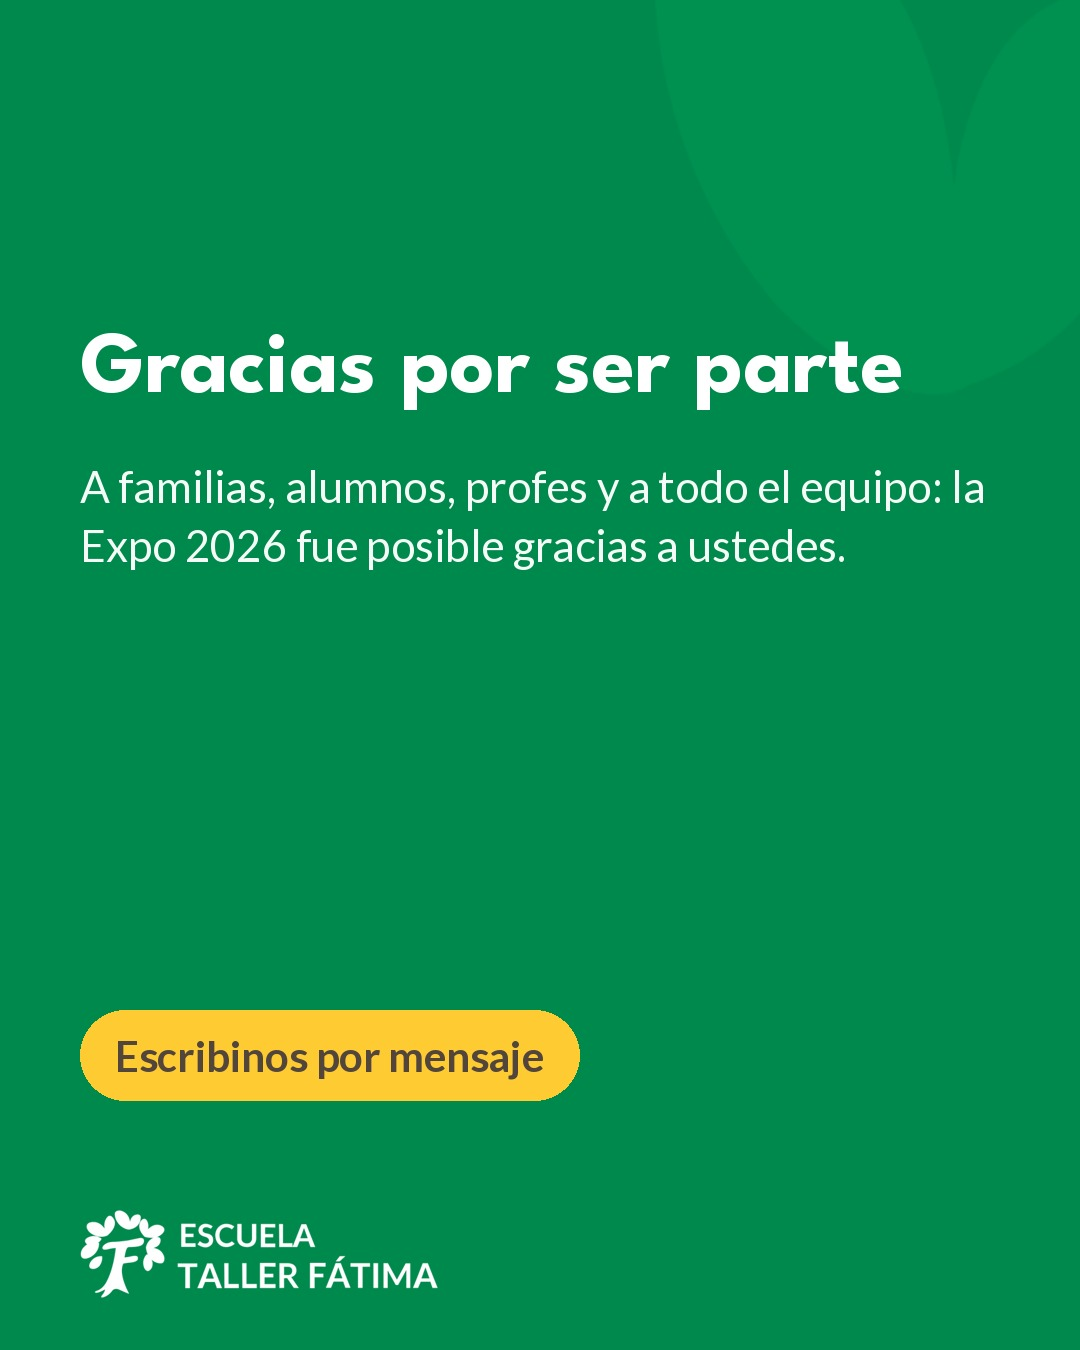
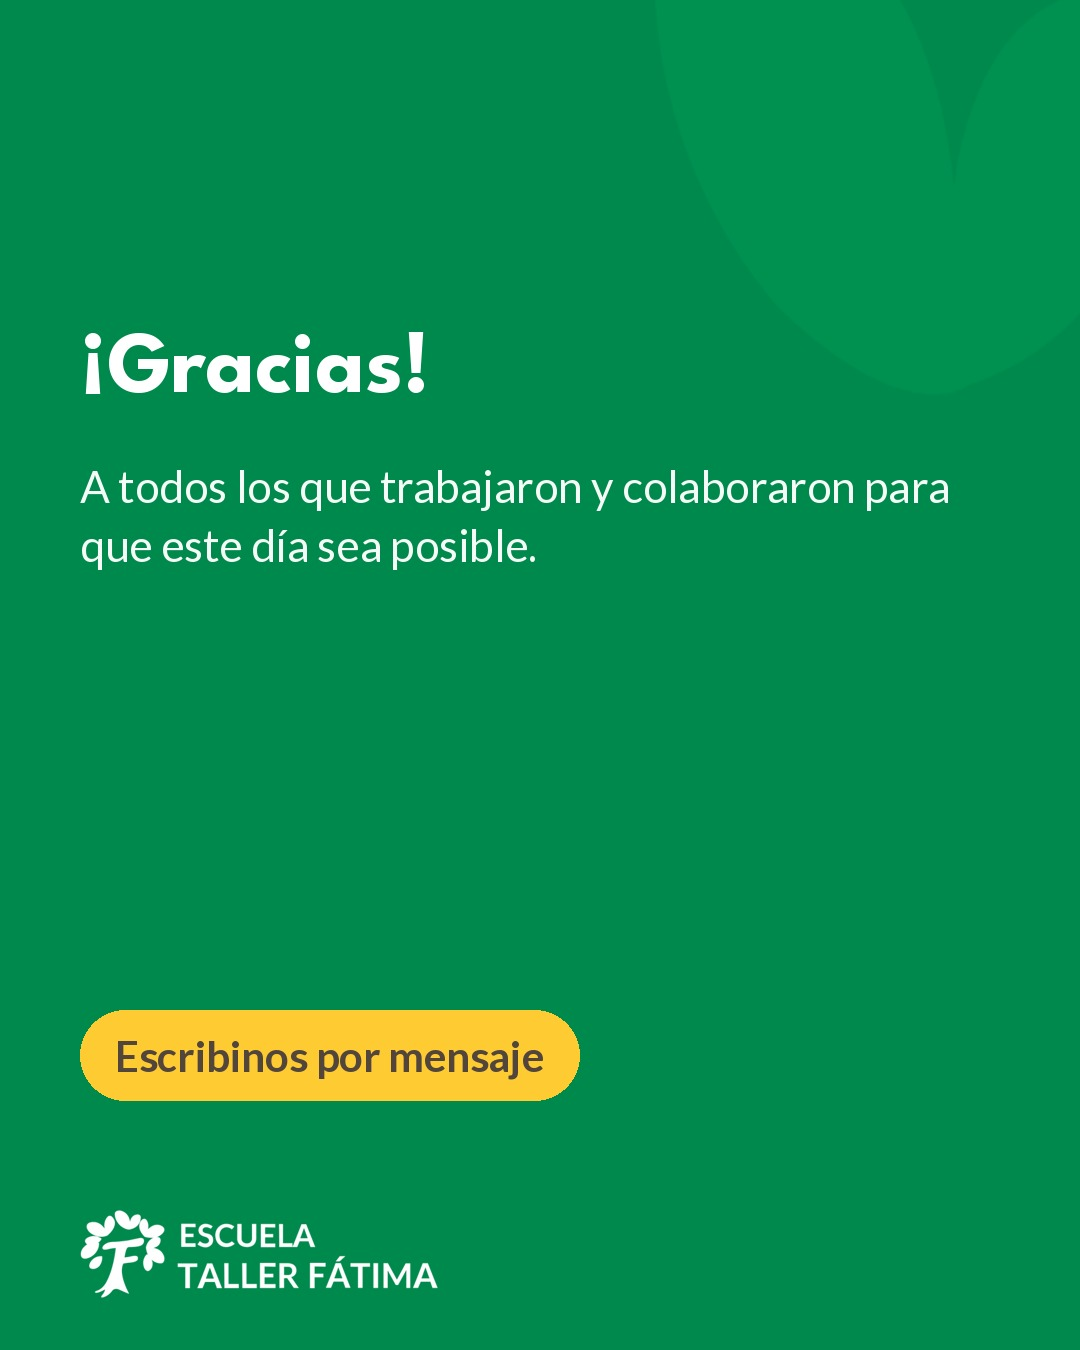
Taller Fátima: agradecimiento en el carrusel de la Expo 2026
Claude-Session: https://claude.ai/code/session_01A1E79ha6BujniUrQ7LXZ3T

diff --git a/clientes/tallerfatima/plan/index.html b/clientes/tallerfatima/plan/index.html
@@ -63,7 +63,7 @@ footer a{color:var(--agua)}
     <div>
       <h1>Publicaciones para aprobar</h1>
       <p>Estas son las piezas preparadas para <strong>@escuelatallerfatima</strong>, con día, hora y texto. Están hechas con fotos y videos del banco de la escuela y con los colores y tipografías del manual de marca. <strong>Nada se publica sin aprobación.</strong> Lo que aprueben sale solo a la hora indicada.</p>
-      <div class="upd" id="upd">Última actualización: martes 17/11/2026 · 22:20 h · se sumó el carrusel de la Expo 2026</div>
+      <div class="upd" id="upd">Última actualización: martes 17/11/2026 · 22:15 h · carrusel de la Expo 2026 con el agradecimiento</div>
     </div>
     <aside class="how">
       <h2>Cómo aprobar</h2>
